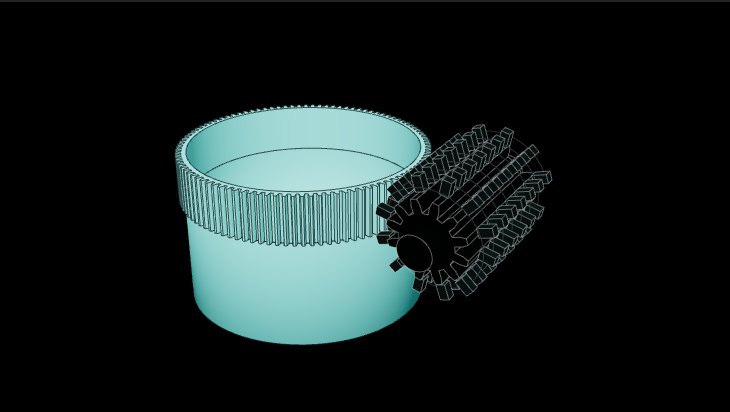
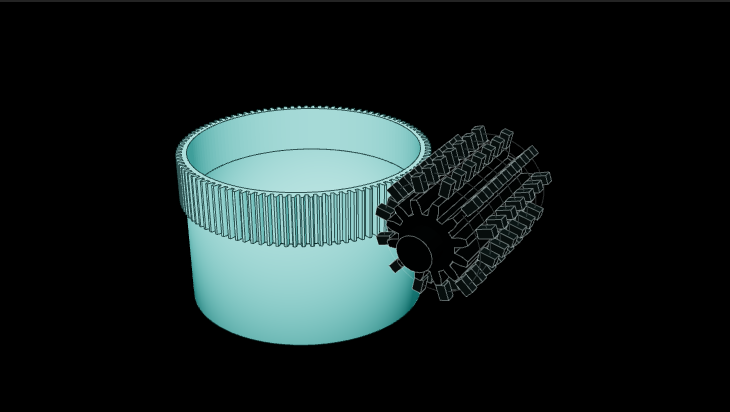
🐛🐛 /manufacturing precision: review fixes for data, graph, map and 3D tools
Data, without new facts:
- RLS: drop the Renishaw parent (no cited source states ownership)
- Rollvis: pin to Switzerland as a region; no source names its town
- 470 MPa peening stress is a simulation output, so estimated
- "Max wall", "Max pitch error", "Max jitter": ceilings read as limits;
  jitter note completed
- Key number convention: up to three per step, fewer when no confirmed
  source gives a figure
- PRECISION_UNOPENED is every source without an `accessed` date, so it
  shrinks as documents are checked (sources gain an optional `accessed`)

Graph: inputs match the step upstream (rolled ring blanks into hardening,
which now soft-turns them; read head and scale into the ASIC, assembled
encoder into calibration; specific hardened blanks out of screw
hardening; toothed or peened flexspline into assembly). Ball sorting
says the elements are made apart or bought in.

Map: pan and zoom gestures obey the same bounds as focus (d3 constrain);
the overview product node is a tab stop; the phone product card is
headed with the chain's product label. Concentration badge and map tier
mark estimates "~" and models "(model)", as the Markdown and REST views do.

Agent surfaces: the .md twin says the encoder split is a capacity
estimate; the get_process and REST descriptions list energy again; MCP
get_process names every chain's step ids when a step matches none.

3D: hob and grating-disc extents cover the shank and hub; the hob's
[…]

diff --git a/frontend/src/pages/supply-chain/manufacturing/ProcessMap.tsx b/frontend/src/pages/supply-chain/manufacturing/ProcessMap.tsx
@@ -4,7 +4,7 @@ import { type ZoomBehavior, zoom, zoomIdentity, zoomTransform } from "d3-zoom";
 import { type KeyboardEvent, useCallback, useEffect, useMemo, useRef, useState } from "react";
 import { TIER_LABEL, concentrationTier } from "../../../../../src/supply-chain/concentration-tier";
 import { countryFlag } from "../../../../../src/country-flag";
-import { percent } from "../../../../../src/supply-chain/format";
+import { sharePercent } from "../../../../../src/supply-chain/format";
 import {
     type ProcessChain,
     type ProcessStep,
@@ -98,8 +98,7 @@ function tierText(step: { shares?: ProcessStep["shares"] }): { text: string; tie
     const s = sharesOf(step.shares);
     const c = s ? concentrationTier(s.value) : null;
     if (!s || !c) return null;
-    const est = s.confidence === "reported" ? "" : "~";
-    return { text: `${TIER_LABEL[c.tier].toUpperCase()} ${countryFlag(c.top.country)} ${est}${percent(c.top.share)}`, tier: c.tier };
+    return { text: `${TIER_LABEL[c.tier].toUpperCase()} ${countryFlag(c.top.country)} ${sharePercent(c.top.share, s.confidence)}`, tier: c.tier };
 }
 
 export interface ProcessMapProps {
@@ -137,12 +136,18 @@ export function ProcessMap({ chain, focusId, onFocus, height = 600 }: ProcessMap
         return () => ro.disconnect();
     }, []);
 
+    // The latest pan limits, read by d3 on every drag, wheel and scaleBy.
+    const clampRef = useRef<(t: ZoomTransform) => ZoomTransform>((t) => t);
     useEffect(() => {
         const svg = svgRef.current;
         if (!svg) return;
         const b = zoom<SVGSVGElement, unknown>()
             .scaleExtent([MIN_K, MAX_K])
             .filter(allowGesture)
+            .constrain((tr) => {
+                const c = clampRef.current({ k: tr.k, x: tr.x, y: tr.y });
+                return zoomIdentity.translate(c.x, c.y).scale(c.k);
+            })
             .on("zoom", (e: { transform: ZoomTransform }) => setT({ k: e.transform.k, x: e.transform.x, y: e.transform.y }));
         const sel = select(svg).call(b);
         behavior.current = b;
@@ -191,6 +196,9 @@ export function ProcessMap({ chain, focusId, onFocus, height = 600 }: ProcessMap
         }),
         [bounds, viewW, height],
     );
+    useEffect(() => {
+        clampRef.current = clampT;
+    }, [clampT]);
     // Zoom to the focused step, centred between the zoom buttons and the card.
     const zoomTo = useCallback(
         (id: string, animate = true) => {
@@ -299,12 +307,12 @@ export function ProcessMap({ chain, focusId, onFocus, height = 600 }: ProcessMap
         pendingFocus.current = null;
     }, [showSteps]);
 
-    const node = (id: string, label: string, icon: string[], box: Box, extra?: { animated?: boolean; branch?: string }) => {
+    const node = (id: string, label: string, icon: string[], box: Box, extra?: { animated?: boolean; branch?: string; focusable?: boolean }) => {
         const dim = lit !== null && !lit.has(id);
         const ls = lines(label);
         return <g key={id} ref={(el) => { if (el) nodeRefs.current.set(id, el); else nodeRefs.current.delete(id); }}
             className={`mf-node${focusId === id ? " is-focus" : ""}${dim ? " is-dim" : ""}${extra?.branch ? ` is-${extra.branch}` : ""}`}
-            transform={`translate(${box.x},${box.y})`} role="button" tabIndex={showSteps ? 0 : -1}
+            transform={`translate(${box.x},${box.y})`} role="button" tabIndex={showSteps || extra?.focusable ? 0 : -1}
             aria-label={`${label}${extra?.animated ? ", 3D animation" : ""}`} aria-pressed={focusId === id}
             data-step={id}
             onClick={() => onFocus(id)} onKeyDown={onKey(id)}
@@ -360,7 +368,7 @@ export function ProcessMap({ chain, focusId, onFocus, height = 600 }: ProcessMap
                     </g>;
                 })}
                 {!showSteps ? clusterEdges.map((e) => <path key={e.key} className="mf-cluster-edge" d={e.d} markerEnd="url(#mf-arrow)" />) : null}
-                {!showSteps && chain.parallel ? node(PRODUCT_ID, chain.productLabel, PRODUCT_ICON_PATHS, layout.nodes.get(PRODUCT_ID) as Box, { animated: Boolean(chain.productScene) }) : null}
+                {!showSteps && chain.parallel ? node(PRODUCT_ID, chain.productLabel, PRODUCT_ICON_PATHS, layout.nodes.get(PRODUCT_ID) as Box, { animated: Boolean(chain.productScene), focusable: true }) : null}
                 {showSteps ? <>
                     <g className="mf-edges">
                         {layout.edges.map((e) => {

diff --git a/src/mcp/tools/processes.ts b/src/mcp/tools/processes.ts
@@ -1,5 +1,5 @@
 import { PROCESS_CHAIN_IDS, processResult } from "@/api/processes";
-import { DEFAULT_CHAIN, chainOfStep } from "@/supply-chain/processes";
+import { DEFAULT_CHAIN, PROCESS_STEP_IDS, chainOfStep } from "@/supply-chain/processes";
 import { processChainOut } from "@/supply-chain/processes/views";
 import { z } from "zod";
 import { ToolInputError, defineTool } from "../tool";
@@ -11,7 +11,7 @@ const getProcess = defineTool({
     name: "get_process",
     title: "Get a manufacturing process",
     description:
-        "How a part of an actuator is made, step by step. chain=magnet is the sintered NdFeB magnet from rare earth ore to a magnetised rotor segment, in four stages: mining, separation, metal and alloy, and magnet making, with the heavy rare earth branch and the scrap loop. chain=precision is four side-by-side sub-chains from bar stock to a tested part: strain-wave gear (flexspline, circular spline, wave generator), planetary roller screw, precision bearing and encoder; its country shares are modeled from company shares. Each step lists the companies that run it, the stage's country shares and concentration tier, and its upstream and downstream steps; most steps also carry cited key numbers (temperature, particle size, tolerance, surface finish, yield). Pass step (e.g. jet-milling, roller-thread-grinding) for one step.",
+        "How a part of an actuator is made, step by step. chain=magnet is the sintered NdFeB magnet from rare earth ore to a magnetised rotor segment, in four stages: mining, separation, metal and alloy, and magnet making, with the heavy rare earth branch and the scrap loop. chain=precision is four side-by-side sub-chains from bar stock to a tested part: strain-wave gear (flexspline, circular spline, wave generator), planetary roller screw, precision bearing and encoder; its country shares are modeled from company shares (the encoder split is estimated from capacity). Each step lists the companies that run it, the stage's country shares and concentration tier, and its upstream and downstream steps; most steps also carry cited key numbers (temperature, particle size, tolerance, surface finish, yield, energy). Pass step (e.g. jet-milling, roller-thread-grinding) for one step.",
     input: z.object({
         chain: z
             .string()
@@ -30,6 +30,12 @@ const getProcess = defineTool({
     }),
     output: processChainOut,
     run: ({ chain, step }) => {
+        // A step that matches no chain is reported against every chain's
+        // ids, not the default chain's alone.
+        if (!chain && step && !chainOfStep(step))
+            throw new ToolInputError(
+                `No step "${step}" in any chain. Step ids: ${[...PROCESS_STEP_IDS].join(", ")}.`,
+            );
         const id = chain ?? (step ? chainOfStep(step)?.id : undefined) ?? DEFAULT_CHAIN;
         const r = processResult(id, step);
         if ("error" in r) throw new ToolInputError(r.error);

diff --git a/src/supply-chain/processes/precision-drive-steps.ts b/src/supply-chain/processes/precision-drive-steps.ts
@@ -64,7 +64,7 @@ export const DRIVE_STEPS: ProcessStep[] = [
         inputs: ["Forged cup blank"],
         outputs: ["Thin-wall cup"],
         keyNumbers: [
-            num("Wall", 1, "mm", ["emag-flexspline"], "2026", {
+            num("Max wall", 1, "mm", ["emag-flexspline"], "2026", {
                 note: "Typical flexspline walls are under 1 mm; uneven thickness causes meshing errors.",
             }),
             num("Wall share", 0.6, "%", ["uspto-us4934212-flexspline"], "1990", {
@@ -137,6 +137,7 @@ export const DRIVE_STEPS: ProcessStep[] = [
                 "2022",
                 {
                     note: "Compressive, after fine particle peening; simulation checked by experiment.",
+                    confidence: "estimated",
                 },
             ),
             num("Roughness Sa", 0.5, "µm", ["liu-flexspline-peening-2022"], "2022"),
@@ -198,7 +199,7 @@ export const DRIVE_STEPS: ProcessStep[] = [
         label: "Matched set assembly",
         caption: "Pair wave generator, flexspline and circular spline as one set.",
         icon: "assemble",
-        inputs: ["Flexspline", "Circular spline", "Wave generator"],
+        inputs: ["Toothed or peened flexspline", "Circular spline", "Wave generator"],
         outputs: ["Strain-wave gear set"],
         keyNumbers: [
             range("Ratio to 1", 50, 160, "", ["hd-csg-gh"], "2026", {
@@ -268,7 +269,11 @@ export const DRIVE_STEPS: ProcessStep[] = [
         caption: "Scan a coil along the shaft; rollers and nut harden through.",
         icon: "coil",
         inputs: ["Screw, roller and nut blanks"],
-        outputs: ["Hardened blanks"],
+        outputs: [
+            "Hardened screw blank",
+            "Hardened roller blanks",
+            "Hardened nut blank",
+        ],
         keyNumbers: [
             num("Surface", 56, "HRC", ["nook-roller-screw"], "2026", {
                 note: "Minimum on rolling surfaces; case depth chosen for the load.",
@@ -291,7 +296,7 @@ export const DRIVE_STEPS: ProcessStep[] = [
         inputs: ["Hardened screw blank"],
         outputs: ["Ground screw"],
         keyNumbers: [
-            num("Pitch error", 2, "µm", ["emag-roller-screw-threads"], "2026", {
+            num("Max pitch error", 2, "µm", ["emag-roller-screw-threads"], "2026", {
                 note: "Below 2 µm between individual thread turns, in practice.",
             }),
         ],

diff --git a/src/supply-chain/processes/precision.ts b/src/supply-chain/processes/precision.ts
@@ -91,9 +91,9 @@ const STEPS: ProcessStep[] = [
         id: "ring-hardening",
         cluster: "bearing",
         label: "Through hardening",
-        caption: "Quench and temper the rings so the raceway is fully hard.",
+        caption: "Soft-turn the rolled rings, then quench and temper them fully hard.",
         icon: "furnace",
-        inputs: ["Turned rings"],
+        inputs: ["Rolled ring blanks"],
         outputs: ["Hardened rings"],
         keyNumbers: [
             range("Raceway", 58, 65, "HRC", ["uspto-us9540705-bearing-ring"], "2017"),
@@ -168,7 +168,7 @@ const STEPS: ProcessStep[] = [
         id: "rolling-element-sorting",
         cluster: "bearing",
         label: "Ball and roller sorting",
-        caption: "Gauge every ball or roller and bin it by size class.",
+        caption: "Gauge balls or rollers, made apart or bought in; bin by size.",
         icon: "gauge",
         inputs: ["Lapped balls or rollers"],
         outputs: ["Sorted element lots"],
@@ -304,8 +304,8 @@ const STEPS: ProcessStep[] = [
             num("Scale pitch", 30, "µm", ["renishaw-resa30"], "2026", {
                 note: "Single-track absolute code on a steel ring.",
             }),
-            num("Jitter", 10, "nm RMS", ["renishaw-resolute-datasheet"], "2026", {
-                note: "Below; sub-divisional error within 40 nm.",
+            num("Max jitter", 10, "nm RMS", ["renishaw-resolute-datasheet"], "2026", {
+                note: "Sub-divisional error is within 40 nm.",
             }),
         ],
         companyIds: ["renishaw", "heidenhain", "tamagawa-seiki", "rls"],
@@ -321,8 +321,8 @@ const STEPS: ProcessStep[] = [
         label: "Interpolation ASIC",
         caption: "A chip splits each sine period of the scale into fine counts.",
         icon: "chip",
-        inputs: ["Read head signals"],
-        outputs: ["Digital position"],
+        inputs: ["Read head and scale"],
+        outputs: ["Assembled encoder"],
         keyNumbers: [
             num("Resolution", 16, "bit", ["ichaus-tw8"], "2026", {
                 note: "One sin/cos interpolator chip, per signal period.",

diff --git a/tests/supply-chain/precision-process.test.ts b/tests/supply-chain/precision-process.test.ts
@@ -135,6 +135,12 @@ describe("precision process chain", () => {
                 ...s.keyNumbers.flatMap((k) => k.value.sources),
             ];
             expect(cited.filter((id) => !getSource(id))).toEqual([]);
+            // Every number names at least one source of its own.
+            expect(
+                s.keyNumbers
+                    .filter((k) => k.value.sources.length === 0)
+                    .map((k) => k.label),
+            ).toEqual([]);
             expect(s.keyNumbers.length).toBeLessThanOrEqual(3);
             expect(s.keyNumbers.every((k) => wordCount(k.label) <= 3)).toBe(true);
             // Labels key the card's list, so they are unique per step.
@@ -156,12 +162,16 @@ describe("precision process chain", () => {
         expect(auditRegistry("2026-11-07").errors).toEqual([]);
     });
 
-    test("documents were never opened, so none carries an accessed date", () => {
-        expect(PRECISION_UNOPENED.size).toBe(PRECISION_SOURCES.length);
-        for (const id of PRECISION_UNOPENED) {
-            expect(getSource(id)).toBeDefined();
-            expect(getSource(id)?.accessed).toBeUndefined();
+    test("unopened documents are exactly those without an accessed date", () => {
+        for (const s of PRECISION_SOURCES) {
+            const accessed = getSource(s.id)?.accessed;
+            expect({ id: s.id, unopened: PRECISION_UNOPENED.has(s.id) }).toEqual({
+                id: s.id,
+                unopened: accessed === undefined,
+            });
         }
+        // Opening a document and dating it takes it off the list.
+        expect(PRECISION_UNOPENED.size).toBeLessThanOrEqual(PRECISION_SOURCES.length);
     });
 
     test("at least four animated vignettes per sub-chain, each valid", () => {

diff --git a/frontend/src/components/flows/ConcentrationBadge.tsx b/frontend/src/components/flows/ConcentrationBadge.tsx
@@ -1,7 +1,7 @@
 import { countryName } from "../../../../src/country-flag";
 import type { Shares } from "../../../../src/supply-chain/concentration";
 import { TIER_LABEL, concentrationTier } from "../../../../src/supply-chain/concentration-tier";
-import { percent } from "../../../../src/supply-chain/format";
+import { sharePercent } from "../../../../src/supply-chain/format";
 import { type Sourced, isSourced } from "../../../../src/supply-chain/sourced";
 import { Flag } from "../Flag";
 import "./flows.css";
@@ -15,12 +15,13 @@ export function ConcentrationBadge({ shares, compact = false }: {
     const cited = isSourced(shares) ? (shares as Sourced<Shares>) : null;
     const c = concentrationTier(cited ? cited.value : (shares as Shares));
     if (!c) return null;
-    // Estimates and models both read as approximate.
-    const est = cited && cited.confidence !== "reported" ? "~" : "";
-    const label = `${TIER_LABEL[c.tier]}: ${countryName(c.top.country)} ${est}${percent(c.top.share)}`;
+    // "~" marks an estimate and "(model)" a model, as in the Markdown and
+    // REST views.
+    const share = sharePercent(c.top.share, cited?.confidence);
+    const label = `${TIER_LABEL[c.tier]}: ${countryName(c.top.country)} ${share}`;
     return <span className={`fk-tier is-${c.tier}${compact ? " is-compact" : ""}`} role="img" aria-label={label} title={label}>
         <b>{TIER_LABEL[c.tier]}</b>
         <Flag code={c.top.country} decorative />
-        <span className="sc-num">{est}{percent(c.top.share)}</span>
+        <span className="sc-num">{share}</span>
     </span>;
 }

diff --git a/src/server/agent/supply-chain/manufacturing.ts b/src/server/agent/supply-chain/manufacturing.ts
@@ -103,7 +103,7 @@ export function manufacturingBody(): string {
 
 Two process maps, step by step, as of ${MANUFACTURING_AS_OF}: the magnet chain (${magnet?.steps.length ?? 0} steps through mining, separation, metal and alloy, and magnet making, with the heavy rare earth branch, grain boundary diffusion and the scrap loop) and the precision chain (${precision?.steps.length ?? 0} steps across the strain-wave gear, planetary roller screw, precision bearing and encoder, the micron-tolerance parts few suppliers make). Interactive map: ${absoluteUrl(MANUFACTURING_PATH)} (pick a chain with \`?chain=<id>\`, deep link a step with \`#step=<id>\`). JSON: ${absoluteUrl("/api/v1/processes")}.
 
-Numbers are each source's published figure for one plant, paper, patent or catalogue; a range is the spread that source gives, not a world average. Magnet country concentration is the stage's share of world output from [/metals](${absoluteUrl("/metals.md")}); precision country splits are modeled from company shares by headquarters, with the method given under each sub-chain.
+Numbers are each source's published figure for one plant, paper, patent or catalogue; a range is the spread that source gives, not a world average. Magnet country concentration is the stage's share of world output from [/metals](${absoluteUrl("/metals.md")}); precision country splits are modeled from company shares by headquarters, except the encoder split, an estimate from one production capacity chart; the method is given under each sub-chain.
 
 ${chains}
 

diff --git a/frontend/src/three/parts/tools.ts b/frontend/src/three/parts/tools.ts
@@ -63,7 +63,10 @@ export function hobPart(p: HobProps): Piece[] {
                 .multiply(new Matrix4().makeTranslation(p.radius, 0, z)),
         );
     }
-    const helix = helixLine(p.radius * 1.02, p.lead, -p.length / 2, p.length / 2);
+    // The teeth start a quarter lead in at angle 0, so the guide helix
+    // (which starts at the body's end) is turned back a quarter turn to
+    // run through them.
+    const helix = helixLine(p.radius * 1.02, p.lead, -p.length / 2, p.length / 2, -Math.PI / 2);
     return [
         { geometry: shank, edges: 30 },
         { geometry: section, edges: 30 },
@@ -96,7 +99,11 @@ export function finishingStonePart(p: FinishingStoneProps): Piece[] {
     // of `radius`, centred below the stone, extruded through the depth.
     const w = p.width / 2;
     const h = p.height / 2;
-    const r = Math.max(p.radius, w * 1.01);
+    // The hollow rises by its sagitta; keep that under 80% of the height,
+    // so a wide, shallow stone never has its arc cross the top face.
+    const maxSag = p.height * 0.8;
+    let r = Math.max(p.radius, w * 1.01);
+    if (r - Math.sqrt(r * r - w * w) > maxSag) r = (w * w + maxSag * maxSag) / (2 * maxSag);
     const yc = -h - Math.sqrt(r * r - w * w);
     const a = Math.atan2(-h - yc, w);
     const s = new Shape();

diff --git a/src/supply-chain/processes/precision-sources.ts b/src/supply-chain/processes/precision-sources.ts
@@ -6,8 +6,9 @@
 //
 // None was opened: page fetches from the research session were blocked, so
 // every figure was confirmed from search results and carries no `accessed`
-// date. Open each and add its date when checked (PRECISION_UNOPENED lists
-// them for the audit). Leaderdrive's own share claim is the registry's
+// date. Open each and add its `accessed` date when checked;
+// PRECISION_UNOPENED is every source still without one, so it shrinks as
+// documents are checked. Leaderdrive's own share claim is the registry's
 // existing Gasgoo source.
 
 // Structural copy of SourceRef: importing the type from ../sources would make
@@ -31,6 +32,8 @@ interface PrecisionSource {
     kind: Kind;
     reuse: Reuse;
     paywalled?: boolean;
+    // ISO date the document was opened and checked.
+    accessed?: string;
 }
 
 const src = (
@@ -399,7 +402,7 @@ export const PRECISION_SOURCES: PrecisionSource[] = [
     ),
 ];
 
-// Every source above: none was opened (see the header).
+// Sources not yet opened and checked: those without an `accessed` date.
 export const PRECISION_UNOPENED: ReadonlySet<string> = new Set(
-    PRECISION_SOURCES.map((s) => s.id),
+    PRECISION_SOURCES.filter((s) => !s.accessed).map((s) => s.id),
 );

diff --git a/tests/supply-chain/processes.test.ts b/tests/supply-chain/processes.test.ts
@@ -227,9 +227,15 @@ describe("process map layout", () => {
         expect(v.startsWith("M50,50")).toBe(true);
     });
 
-    test("edge labels sit clear of every step card and of each other", () => {
+    test("edge labels sit clear of every step card, cluster head and each other", () => {
         for (const chain of PROCESS_CHAINS) {
             const l = chainLayout(chain);
+            const heads = l.clusters.map((c) => ({
+                x: c.x,
+                y: c.y,
+                w: c.w,
+                h: CLUSTER_HEAD,
+            }));
             const labelled = l.edges.filter((e) => e.label);
             expect(labelled.length).toBe(chain.edges.filter((e) => e.label).length);
             for (const e of labelled) {
@@ -241,6 +247,7 @@ describe("process map layout", () => {
                     edge: `${e.from}->${e.to}`,
                     hits: [],
                 });
+                expect(heads.filter((h) => overlaps(box, h))).toEqual([]);
                 // Labels show for one step's edges at a time.
                 const clash = labelled.filter(
                     (f) =>

diff --git a/src/api/operations.ts b/src/api/operations.ts
@@ -383,7 +383,7 @@ export const OPERATIONS: Operation[] = [
         path: "/api/v1/processes/:chain",
         summary: "Get a manufacturing process chain",
         description:
-            "Every step of one chain in order, grouped by stage or sub-chain: inputs and outputs, cited key numbers (temperature, particle size, tolerance, surface finish, yield), the companies that run it, the stage's country shares and concentration tier, upstream and downstream steps, /bom node and /metals element links, and sources. Pass `step` for one step and its edges.",
+            "Every step of one chain in order, grouped by stage or sub-chain: inputs and outputs, cited key numbers (temperature, particle size, tolerance, surface finish, yield, energy), the companies that run it, the stage's country shares and concentration tier, upstream and downstream steps, /bom node and /metals element links, and sources. Pass `step` for one step and its edges.",
         pathParam: {
             name: "chain",
             description: "Chain id: magnet or precision.",

diff --git a/src/supply-chain/sites/precision.ts b/src/supply-chain/sites/precision.ts
@@ -1,19 +1,24 @@
 import { type Site, hq } from "./types";
 
 // Headquarters of the precision chain makers added for
-// /manufacturing?chain=precision, pinned to their home city. GSA's town is
-// not confirmed, so it is pinned to Switzerland as a region.
+// /manufacturing?chain=precision, pinned to their home city. Rollvis's and
+// GSA's towns are not confirmed by a cited source, so both are pinned to
+// Switzerland as a region.
 
 export const PRECISION_SITES: Site[] = [
-    hq("rollvis-geneva", {
+    {
+        id: "rollvis-switzerland",
         companyId: "rollvis",
+        kind: "hq",
         name: "Rollvis headquarters",
         country: "CH",
-        admin1: "Geneva",
-        lat: 46.2,
-        lon: 6.14,
+        lat: 46.8,
+        lon: 8.2,
+        precision: "region",
+        stages: [],
+        status: "operating",
         sources: ["med-technews-rollvis"],
-    }),
+    },
     {
         id: "gsa-switzerland",
         companyId: "gsa",
